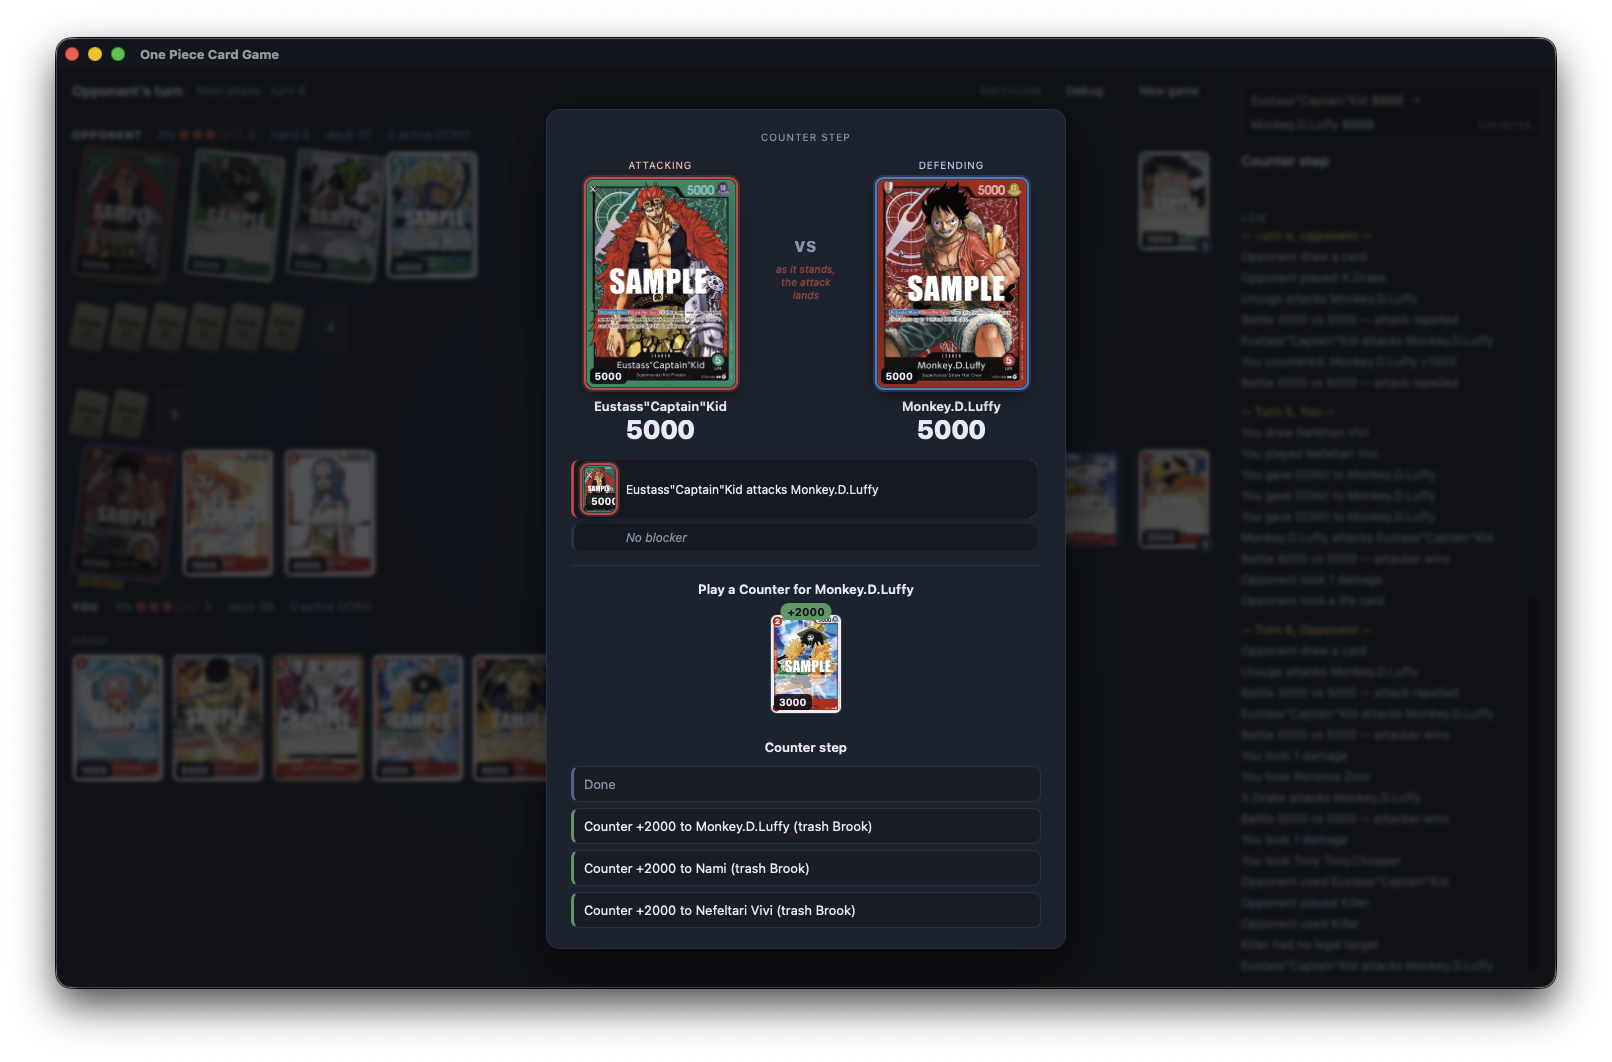
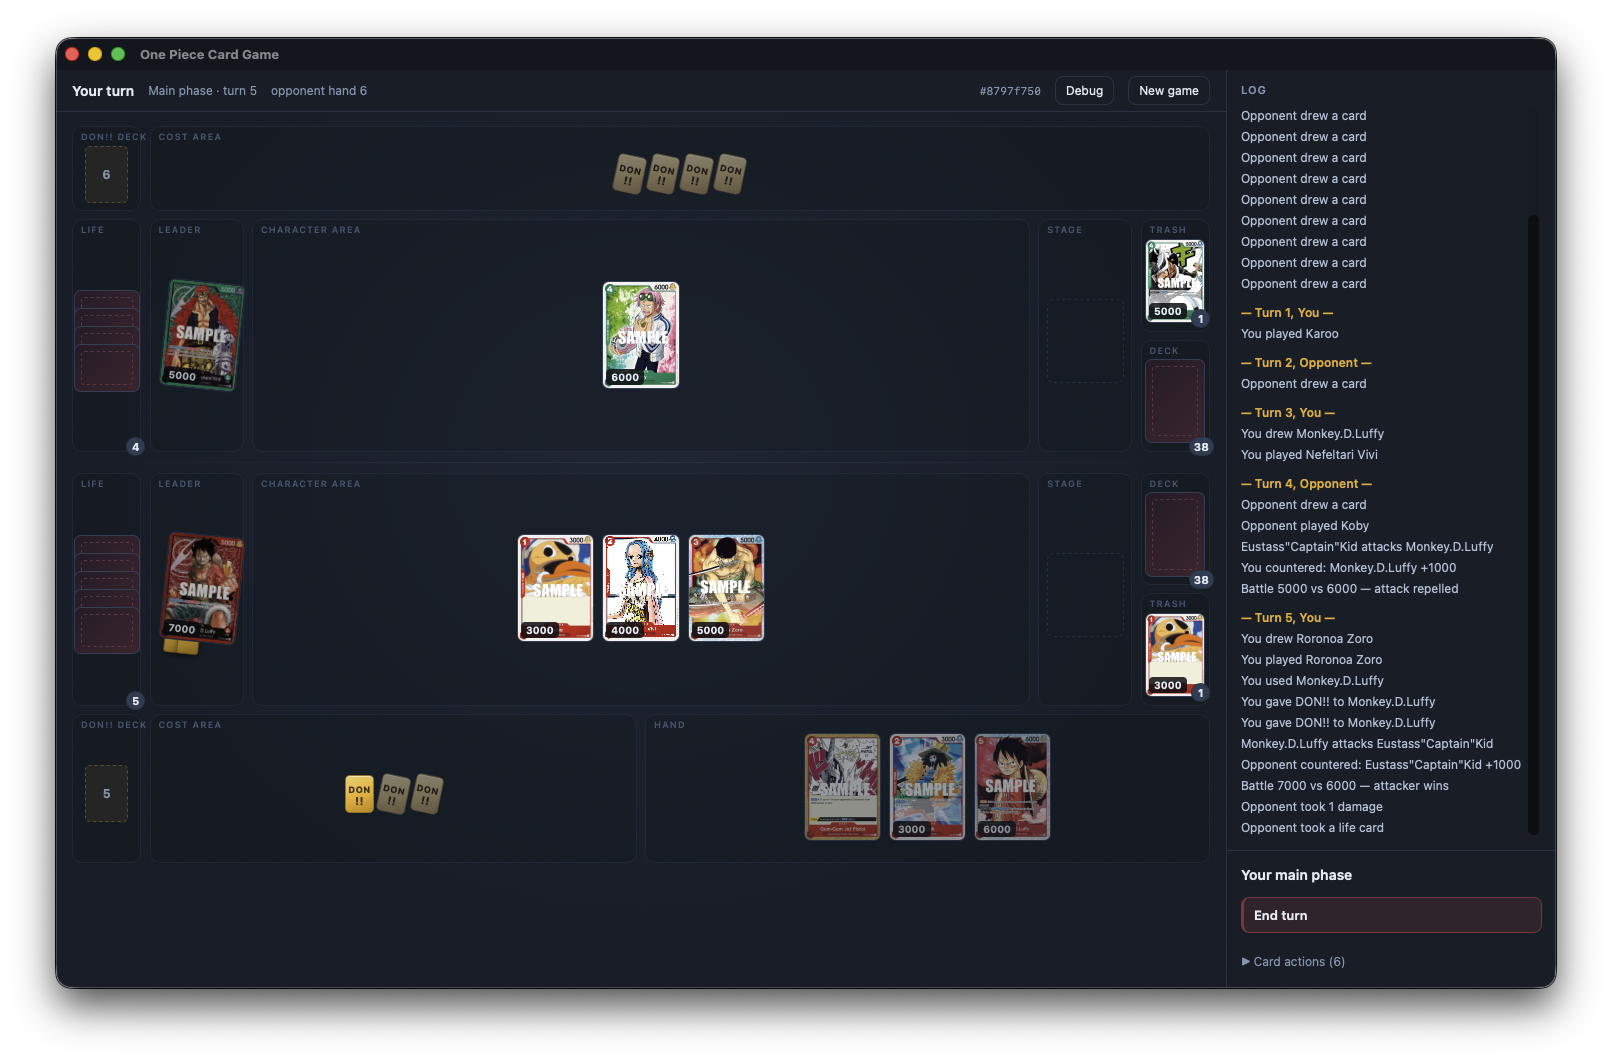
Show the board rather than a modal over it
The shot this replaces was taken before the card-centric UI landed, and it
was a battle modal covering most of the table. As the first thing in the
README it advertised a dialog.

The new one is the same client on turn 5 with nothing in the way: both
players' zones mirrored across the divider, characters with their current
power, the hand along the bottom and the turn log down the side. Same
dimensions, so the layout is unchanged.

Alt text and caption rewritten to describe what is actually in the frame.

Claude-Session: https://claude.ai/code/session_0133Tc6zTkUmhv7VgTHvVCw6

diff --git a/README.md b/README.md
@@ -4,11 +4,11 @@
 [![Card coverage: 3/59 sets scripted](https://img.shields.io/badge/card_sets-3%2F59_scripted-orange)](#coverage-of-the-source)
 
 <p align="center">
-  <img src="docs/screenshot.png" alt="The desktop client during a battle, resolving a counter step: attacker and defender side by side at 5000 power each, with the counter cards available from hand listed below and a running game log down the right-hand side." width="900">
+  <img src="docs/screenshot.png" alt="The desktop client on turn 5. Each player's zones are laid out facing each other across the middle of the table: leader, character area, stage, life, deck and trash, with the DON!! cost areas furthest apart at the top and bottom. Three characters are in play for the near player, one for the far player, each showing its current power. The player's hand runs along the bottom edge and a turn-by-turn game log fills the right-hand column." width="900">
 </p>
 
 <p align="center">
-  <em>The desktop client at the counter step — the defender decides before damage.
+  <em>The desktop client on turn 5 — both boards, the hand, and the turn log.
   Card art is fetched at runtime and is not part of this repository.</em>
 </p>
 
